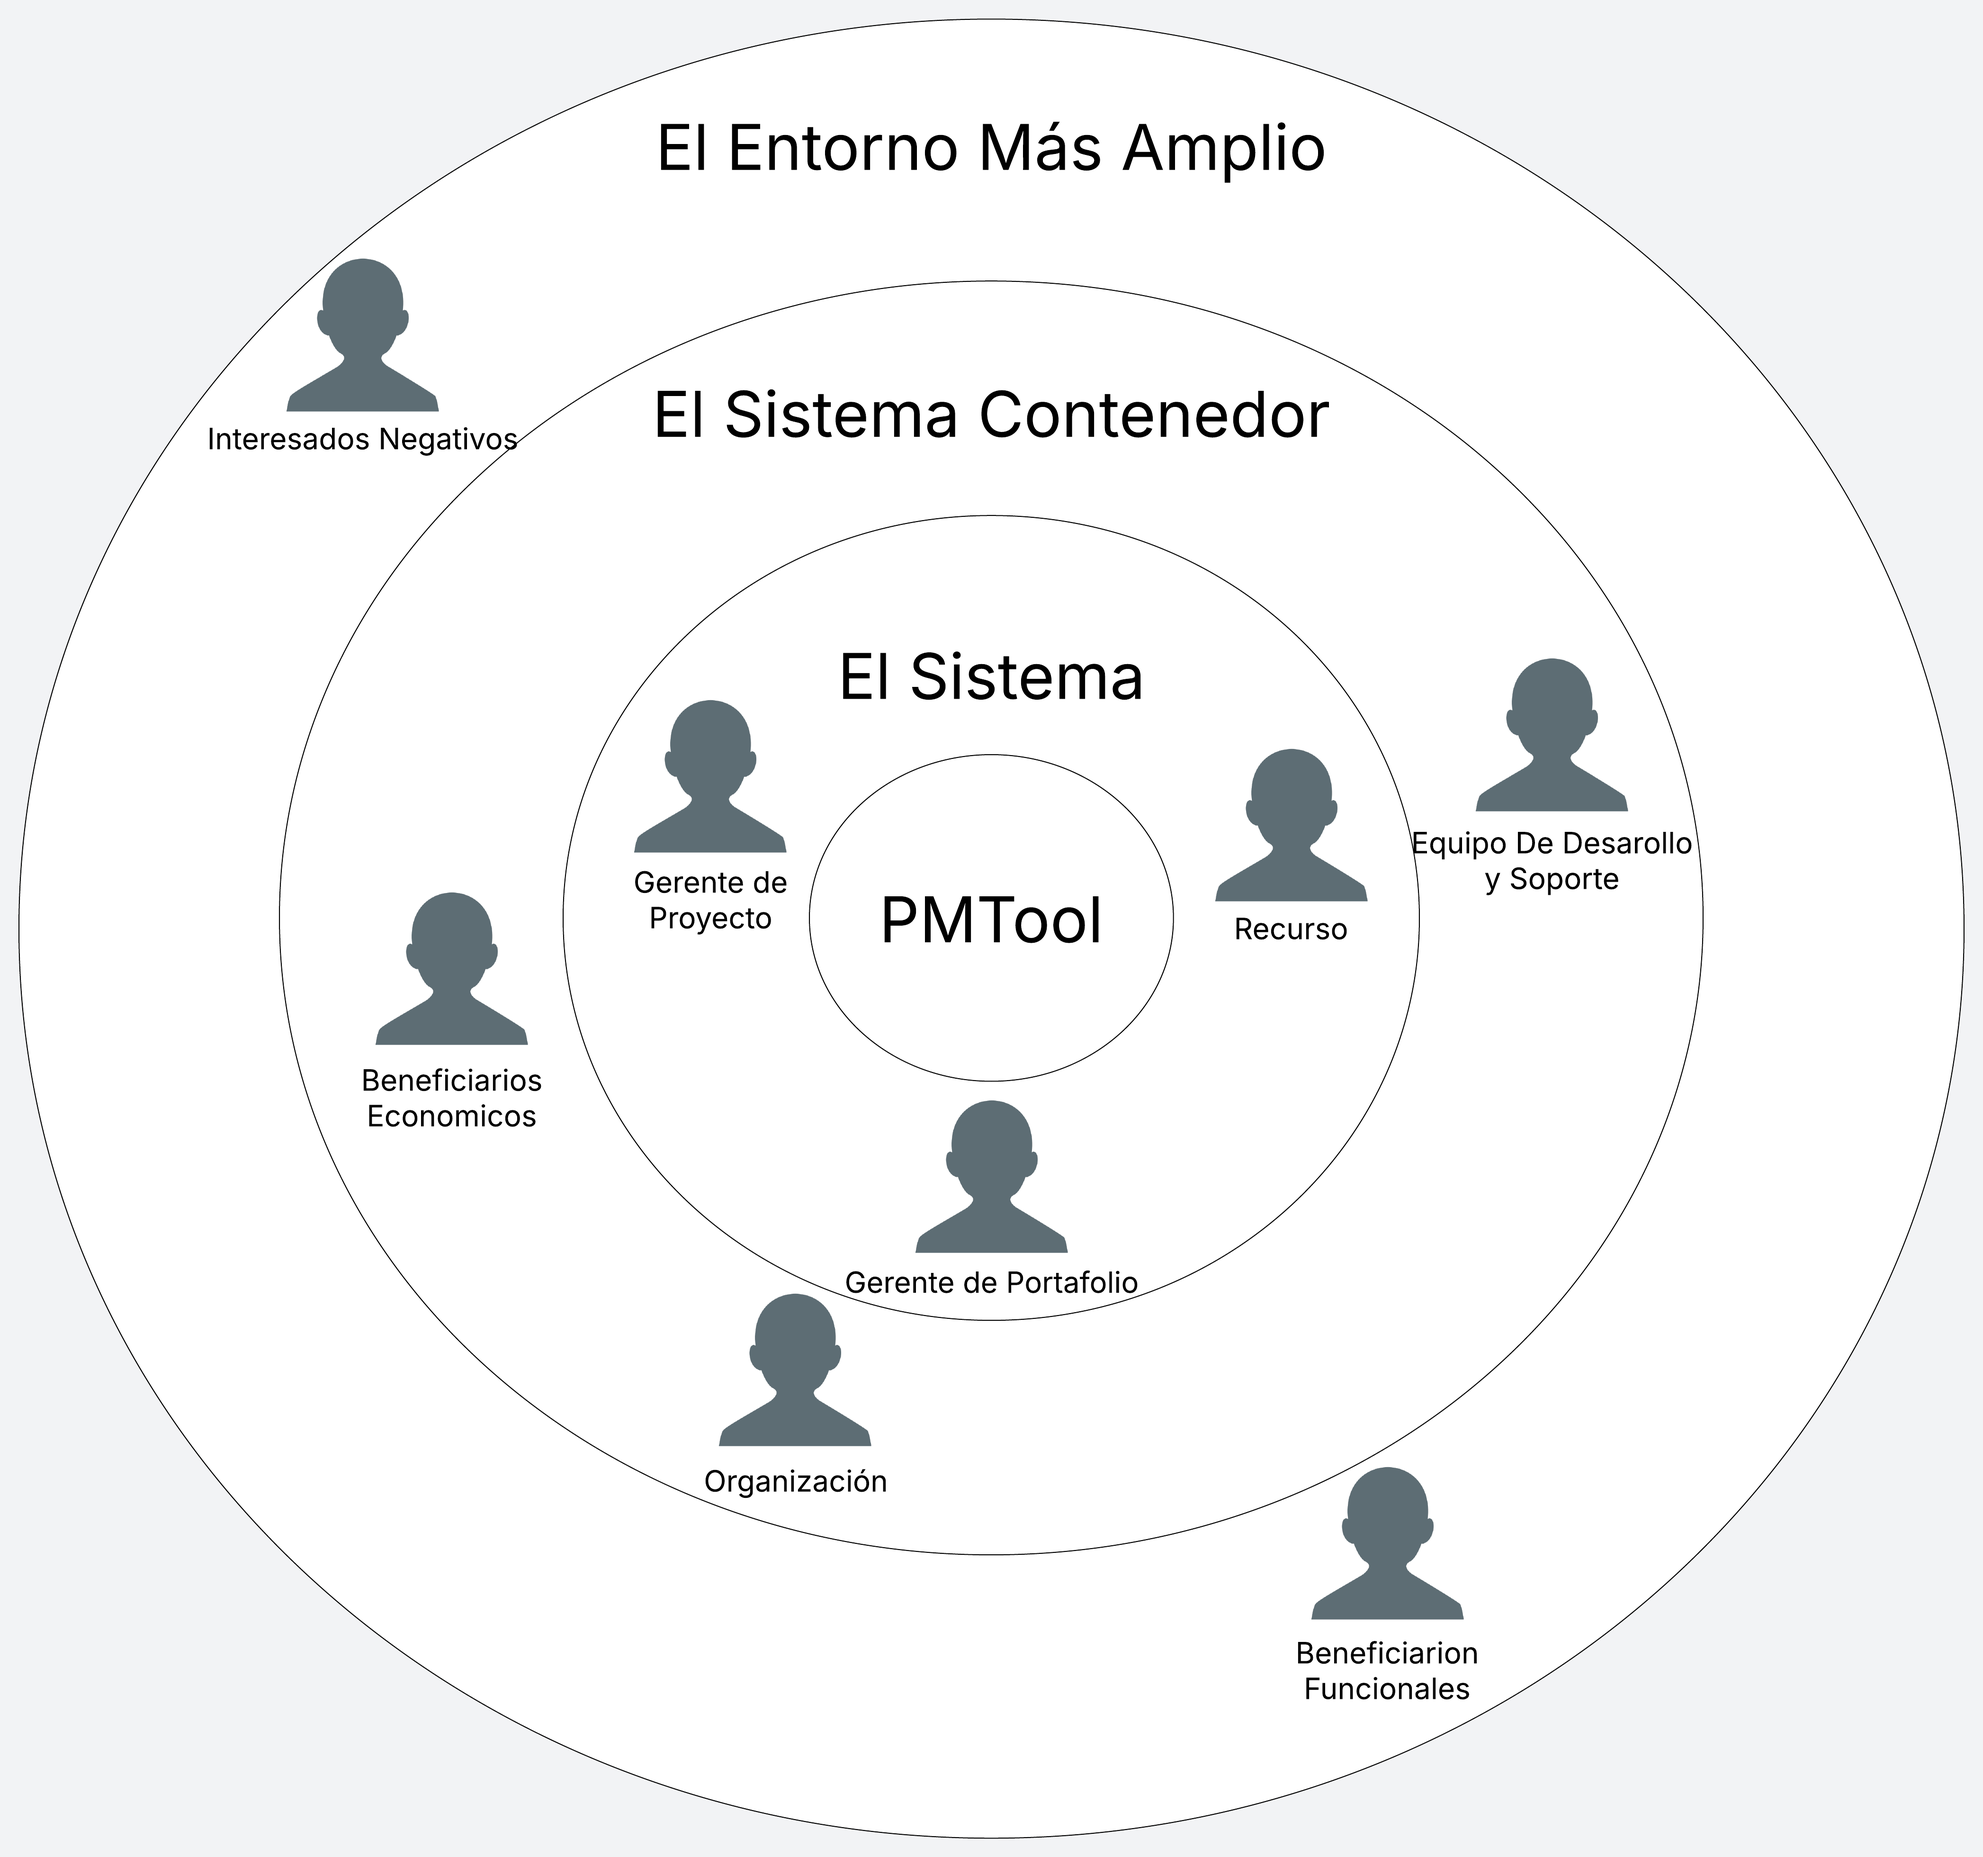
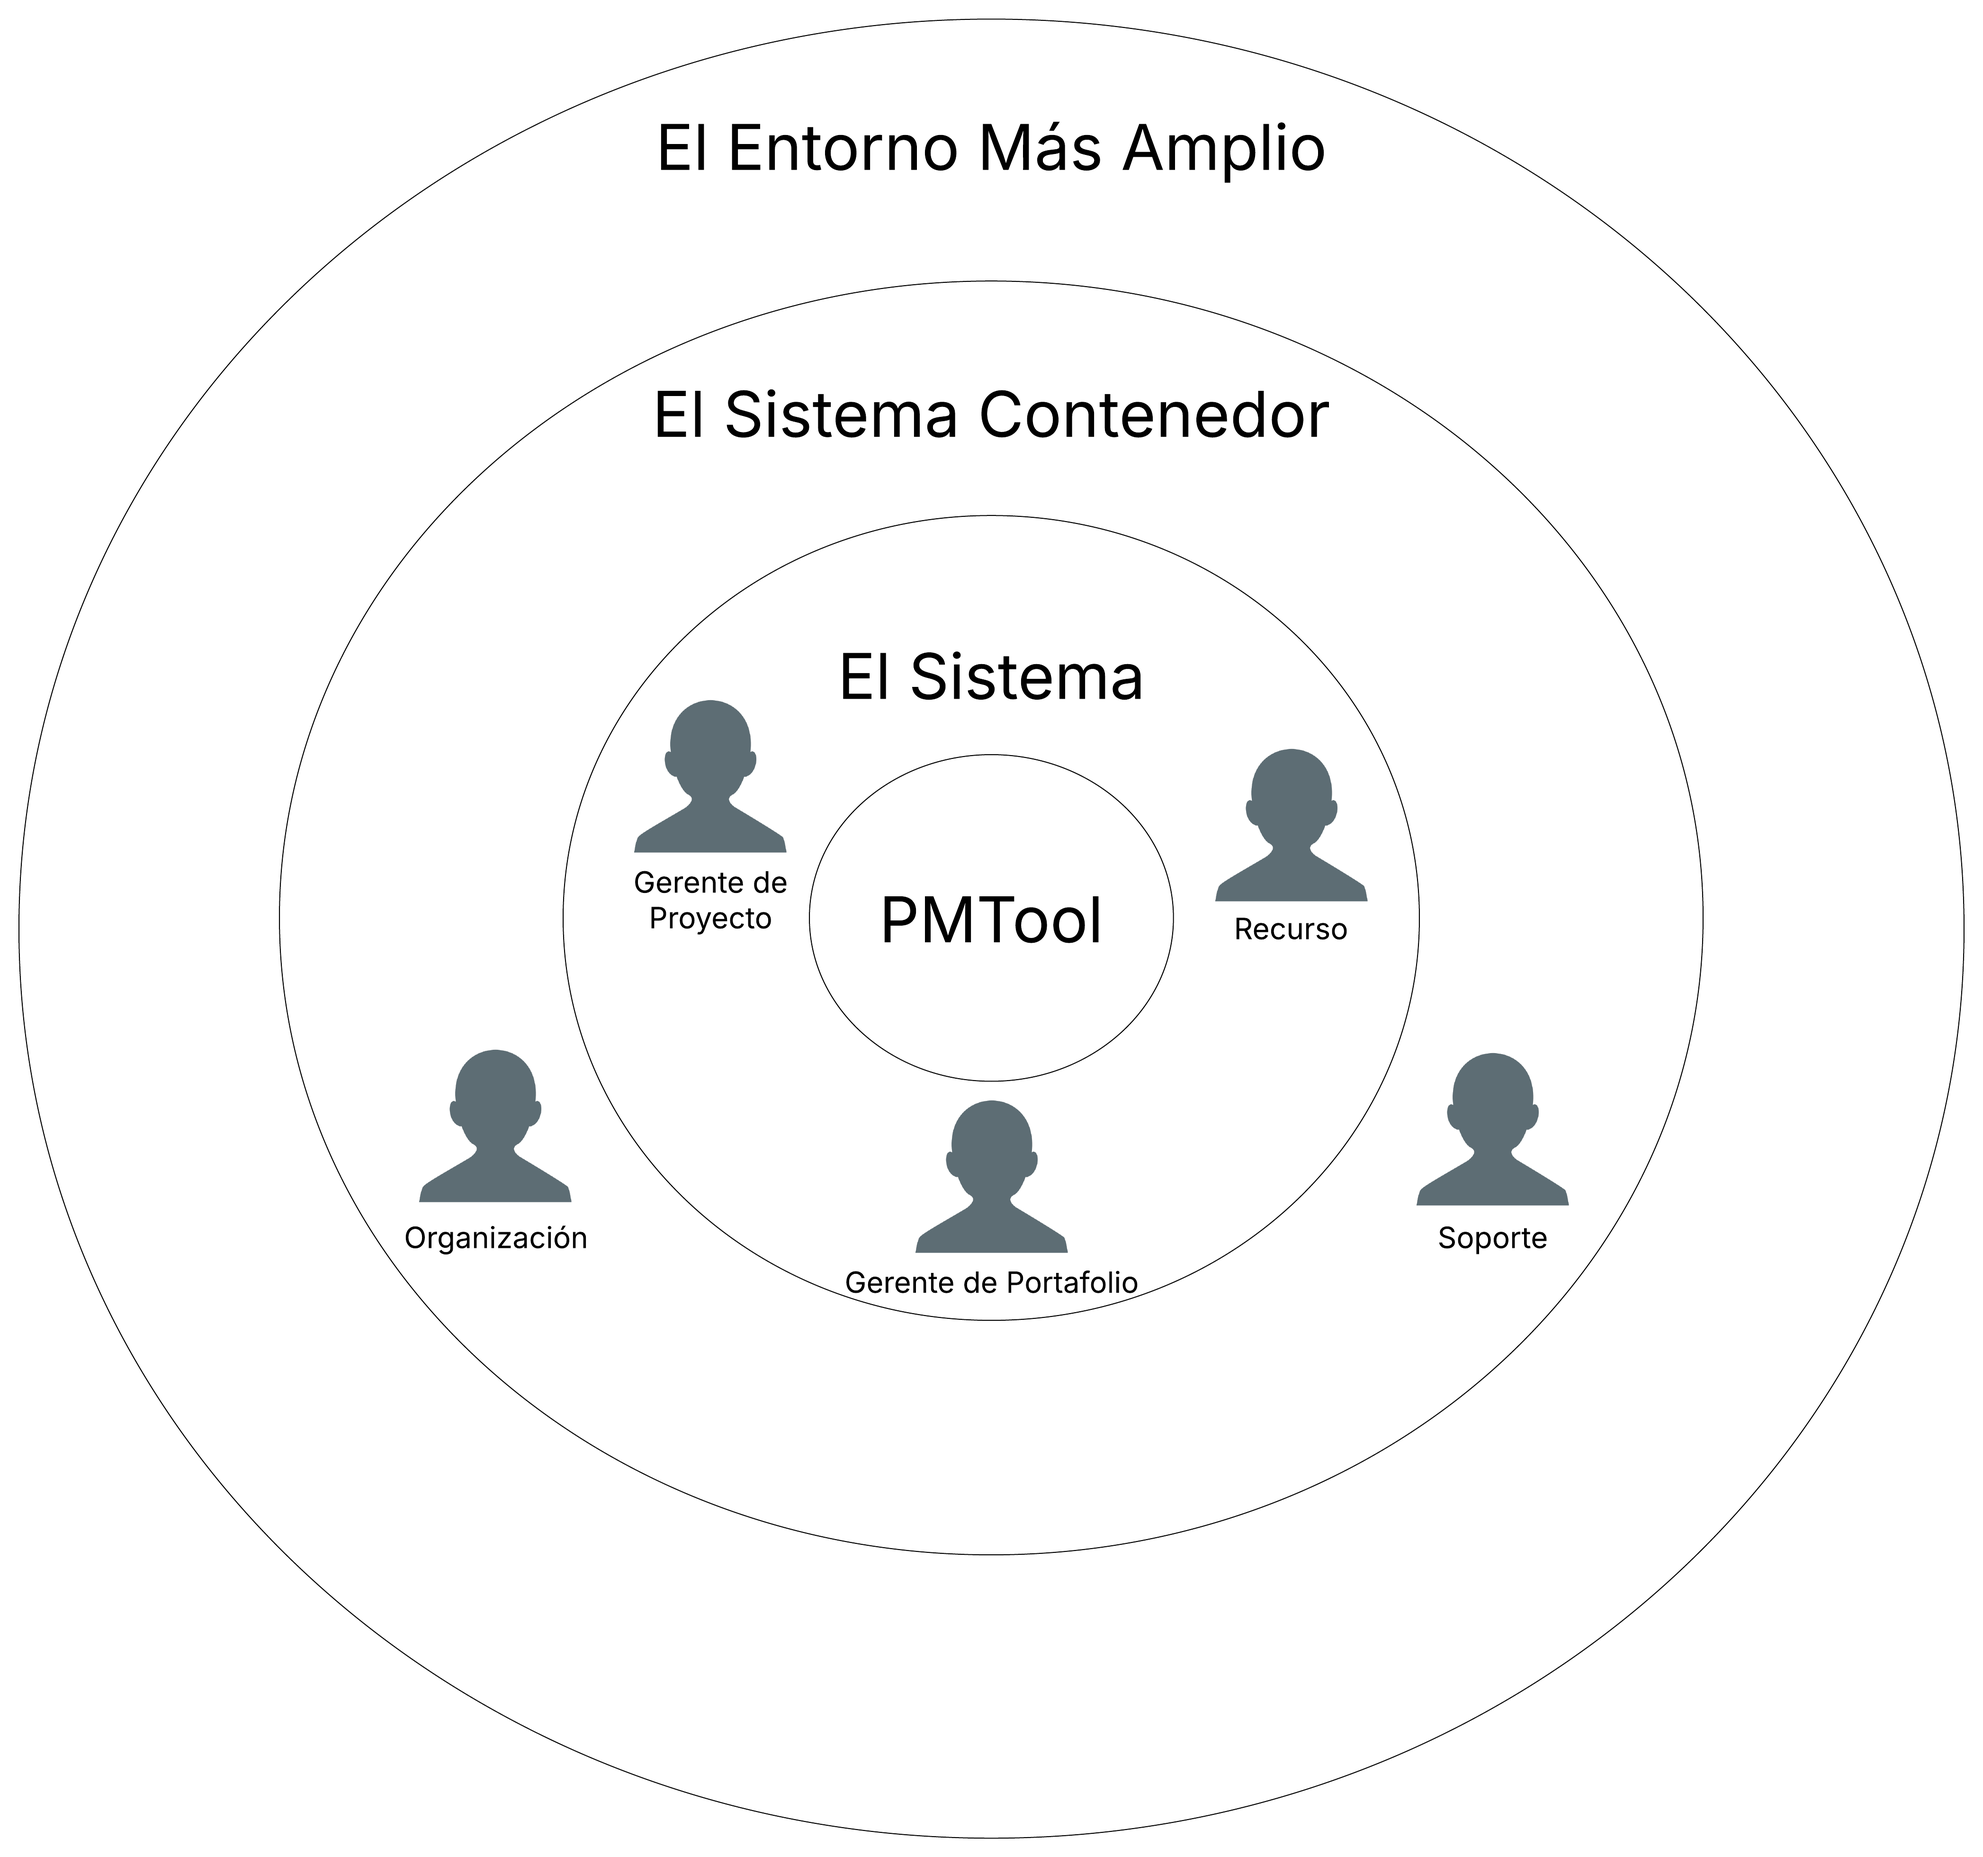
docs: change interesados.md and onion_model.png

diff --git a/docs/interesados.md b/docs/interesados.md
@@ -5,86 +5,32 @@
 
 ### Interesados
 
-Los interesados (stakeholders) de PMTool han sido identificados basándose en los requisitos funcionales y de negocio detallados en `requisitos.md`, complementados con supuestos lógicos para roles contextuales:
+Los interesados (stakeholders) de PMTool:
 
 1. **Gerente de Portafolio**  
    - **Descripción**: Supervisa el portafolio de proyectos, crea nuevos proyectos y asegura alineación estratégica. Gestiona métricas como presupuesto y plazos.  
-   - **Origen**: Requisito 1.1, 2.1, 5.1.  
+   - **Origen**: Requisitos 1.1, 2.1, 5.1; Historia de Dominio PMTool-001.  
    - **Rol en PMTool**: Usa el sistema para iniciar proyectos y monitorear el portafolio.  
 
 2. **Gerente de Proyecto**  
    - **Descripción**: Administra proyectos individuales, planifica actividades, asigna recursos y asegura cumplimiento de alcance, tiempo y presupuesto.  
-   - **Origen**: Requisitos 2.2, 2.3, 2.5, 2.6, 3.1, 3.2.  
+   - **Origen**: Requisitos 2.2, 2.3, 2.5, 2.6, 3.1, 3.2; Historias de Dominio PMTool-002, PMTool-003.  
    - **Rol en PMTool**: Planifica y ejecuta proyectos, gestiona EDT y estados de actividades.   
 
 3. **Recurso**  
    - **Descripción**: Miembros del equipo o contratistas asignados a actividades específicas.  
-   - **Origen**: Requisito 3.2.6. Los requisitos 3.2.1–3.2.9 implican ejecución de actividades.  
-   - **Rol en PMTool**: Responsable de actividades
+   - **Origen**: Requisito 3.2.6; Historias de Dominio PMTool-002, PMTool-003.  
+   - **Rol en PMTool**: Ejecuta actividades asignadas y reporta su estado.  
 
 4. **Organización**  
-   - **Descripción**: Entidad que adopta PMTool, establece objetivos estratégicos, asigna presupuestos y se beneficia de los proyectos.  
-   - **Origen**: Requisitos 1.1, 1.5, 5.1. Implica una entidad que financia y evalúa resultados.  
-   - **Rol en PMTool**: Define metas, provee recursos y espera informes de desempeño.  
+   - **Descripción**: Entidad que adopta PMTool, establece objetivos, asigna presupuestos y se beneficia de los proyectos.  
+   - **Origen**: Requisitos 1.1, 1.5, 5.1; Historia de Dominio PMTool-001.  
+   - **Rol en PMTool**: Define metas y provee recursos, pero no interactúa directamente con el sistema (rol indirecto).  
 
-5. **Equipo de Desarrollo**  
-   - **Descripción**: Equipo que construyó PMTool y podría mantener o actualizar su código.  
-   - **Origen**: Requisito 4.1.
-   - **Rol en PMTool**: Responsable de la creación técnica y posibles mejoras.  
-    
-   5.1 **Soporte**:  
-      - **Descripción**: Equipo técnico que mantiene PMTool, resuelve problemas y asegura su operatividad.  
-      - **Rol en PMTool**: Asegura estabilidad del sistema y resuelve incidencias para usuarios.  
-
-6. **Beneficiarios Económicos**  
-   - **Descripción**: Stakeholders que obtienen beneficios financieros del éxito de los proyectos, como ejecutivos o accionistas.  
-   - **Origen**: Requisito 1.5 y 1.1 sugieren interés en eficiencia financiera.  
-   - **Rol en PMTool**: Se benefician directamente de proyectos completados dentro del presupuesto.  
-
-8. **Interesados Negativos**  
-   - **Descripción**: Individuos o grupos que se podrían resistir a PMTool.  
-   - **Origen**: No hay requisitos explícitos, pero el cambio a PMTool (1.1–5.3) podría generar resistencia. 
-   - **Rol en PMTool**: Podrían obstaculizar la adopción o venta de los servicios de gestión de portafolios de proyectos.  
-
-9. **Beneficiarios Funcionales**  
-   - **Descripción**: Grupos que se benefician indirectamente de los resultados de los proyectos.
-   - **Origen**: Requisitos 3.1.4 y 1.1 sugieren que los proyectos generan valor para otros.  
-   - **Rol en PMTool**: Reciben beneficios de los entregables, pueden ser clientes que contratan los servicios de PMTool de gestión de portafolios de proyectos.  
-
-## Matriz de Influencia/Interés
-
-La matriz clasifica a los interesados según su influencia (capacidad de afectar PMTool) e interés (impacto del sistema en sus objetivos). Las posiciones se basan en requisitos y supuestos claros para cumplir con la retroalimentación del profesor.
-
-```mermaid
-quadrantChart
-    title Matriz de Influencia/Interés
-    x-axis Interes en el Proyecto --> 
-    y-axis Influencia en el Proyecto --> 
-    quadrant-1 Mantener Satisfechos
-    quadrant-2 Gestionar Atentamente
-    quadrant-3 Monitorear
-    quadrant-4 Mantener Informados
-    GerPort: [0.9, 0.9]
-    GerPro: [0.9, 0.8]
-    Rec: [0.6, 0.8]
-    Org: [0.9, 0.7]
-    BenefiEco: [0.6, 0.5]
-    EqDes: [0.6, 0.3]
-    IntNeg: [0.4, 0.3]
-    BenefiFunc: [0.4, 0.6]
-```
-
-### Supuestos para la Matriz :
-
-**Gerente de Portafolio** : Alta influencia (crea proyectos, 2.1) y alto interés (éxito del portafolio, 1.1).
-**Gerente de Proyecto** : Alta influencia (gestiona proyectos, 2.2–2.6) y alto interés (usuario diario de PMTool).
-**Recurso** : Influencia moderada (ejecuta tareas, 3.2.6) y alto interés (depende de claridad en asignaciones).
-**Organización** : Alta influencia (financia PMTool, 1.5) e interés moderado (enfocada en resultados estratégicos).
-**Beneficiarios Económicos** : Influencia moderada (presión financiera, 1.5) y moderado interés (beneficios directos).
-**Equipo de Desarrollo** : Muy baja influencia (4.1) y moderado interés.
-**Interesados Negativos** : Baja influencia e interés (resistencia al cambio).
-**Beneficiarios Funcionales** : moderada influencia (sin interacción directa) e interés bajo (valoran entregables, 3.1.4).
-
+5. **Soporte**  
+   - **Descripción**: Equipo técnico que mantiene PMTool, resuelve problemas y asegura su operatividad. 
+   - **Origen**: Requisito 4.1.  
+   - **Rol en PMTool**: Asegura estabilidad del sistema y resuelve problemas de los usuarios, con funciones de desarrollo y mantenimiento.
 
 ## Diagrama de Stakeholders
 
@@ -92,27 +38,20 @@ quadrantChart
 
 ### Capas del Modelo y Actores
 
-#### Capa 0: PMTool:
-   - Descripción : Sistema para gestionar portafolios, proyectos y actividades mediante una estructura de desarrollo de trabajo (EDT/WBS).
-   - Rol : Habilita funcionalidades como creación de proyectos (3.1.1), gestión de actividades (3.2.1–3.2.9), y control presupuestal (1.5).
-
-#### Capa 1: El Sistema:
-   - Descripción : Usuarios directos que interactúan con PMTool para operar portafolios, proyectos y actividades.
-   - Actores :
-      - Gerente de Portafolio : Crea y supervisa proyectos (2.1, 1.1).
-      - Gerente de Proyecto : Planifica, ejecuta y finaliza proyectos, gestiona EDT (2.2–2.6, 3.1–3.2).
-      - Recurso : Ejecuta actividades asignadas y actualiza estados (3.2.6).
-
-#### Capa 2: El Sistema Contenedor:
-   - Descripción : Entidades que proveen contexto, recursos o soporte para PMTool, pero no lo usan directamente.
-   - Actores :
-      - Organización : Finanzas PMTool y define metas estratégicas (1.1, 1.5, 5.1).
-      - Beneficiarios Económicos : Ganan con la eficiencia financiera de los proyectos (1.5).
-      - Equipo de Desarrollo : Desarrolladores de PMTool.
-         - Soporte : Mantiene la operatividad del sistema (4.1).
-
-#### Capa 3: El Entorno mas amplio:
-   - Descripción : Stakeholders externos con impacto indirecto en PMTool o afectados por sus resultados.
-   - Actores :
-      - Interesados Negativos : Empleados o usuarios de sistemas anteriores que podrían oponerse.
-      - Beneficiarios Funcionales : Grupos que usan los entregables de los proyectos (3.1).
+#### Capa 0: PMTool
+   - **Descripción**: Sistema para gestionar portafolios, proyectos y actividades mediante una estructura de desarrollo de trabajo (EDT/WBS).
+   - **Rol**: Habilita funcionalidades como creación de proyectos y gestión de actividades.
+#### Capa 1: El Sistema
+   - **Descripción**: Usuarios directos que interactúan con PMTool para operar portafolios, proyectos y actividades.
+   - **Actores**:
+      - **Gerente de Portafolio**: Crea y supervisa proyectos.
+      - **Gerente de Proyecto**: Planifica, ejecuta y finaliza proyectos y gestiona EDT.
+      - **Recurso**: Ejecuta actividades y reporta estados.
+#### Capa 2: El Sistema Contenedor
+   - **Descripción**: Entidad que provee contexto y recursos para PMTool, pero no lo usa directamente.
+   - **Actores**:
+      - **Organización**: Financia PMTool y define metas y presupuestos.
+      - **Soporte**: Mantiene la operatividad y realiza actualizaciones del sistema.
+#### Capa 3: El Entorno más amplio
+   - **Descripción**: No se an encontrado interesados.
+   - **Actores**: Ninguno.
